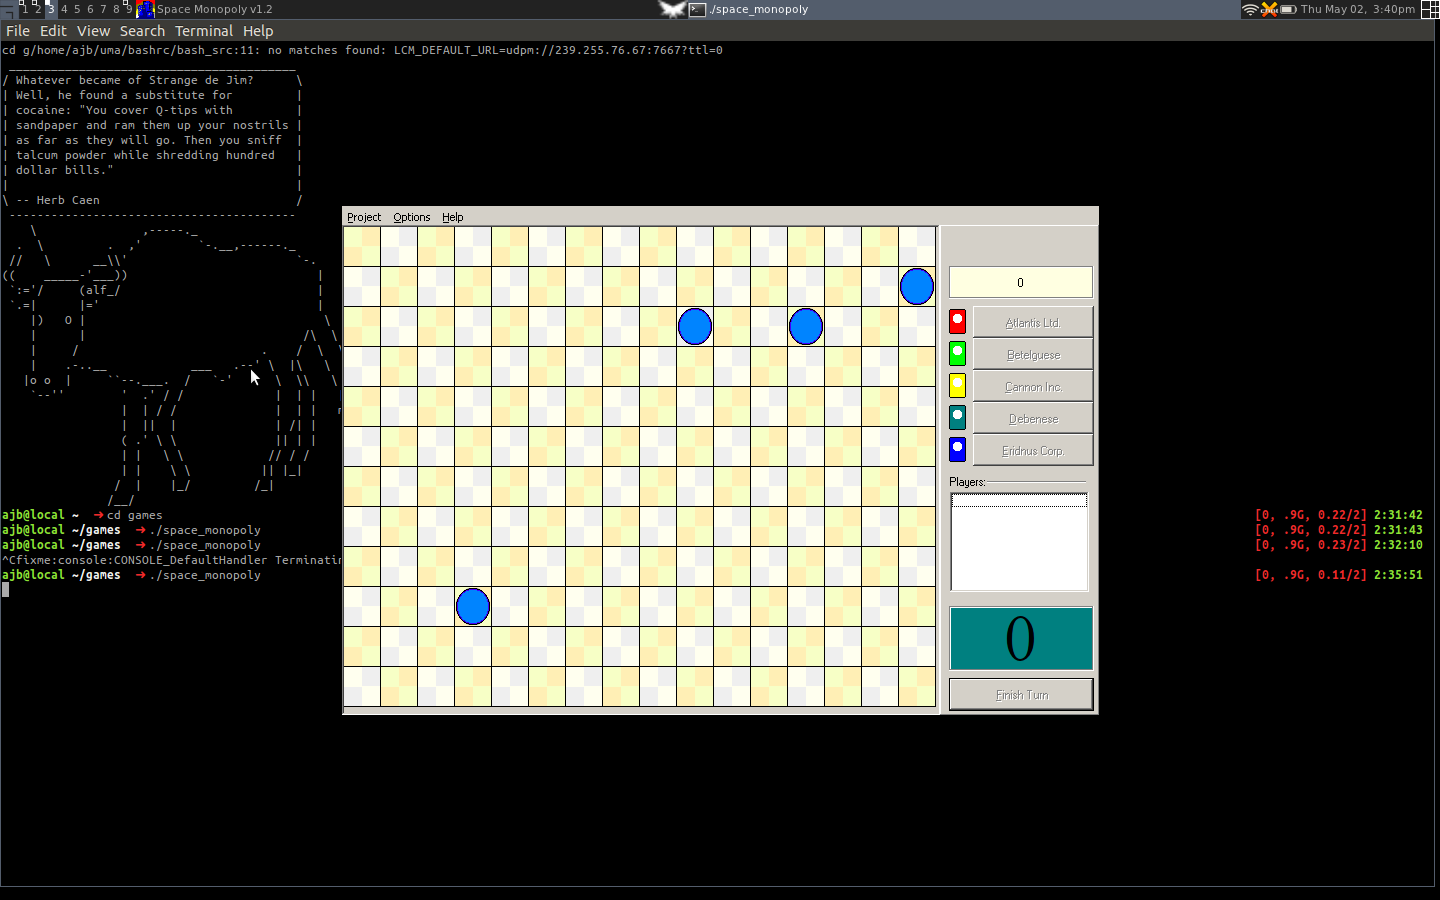
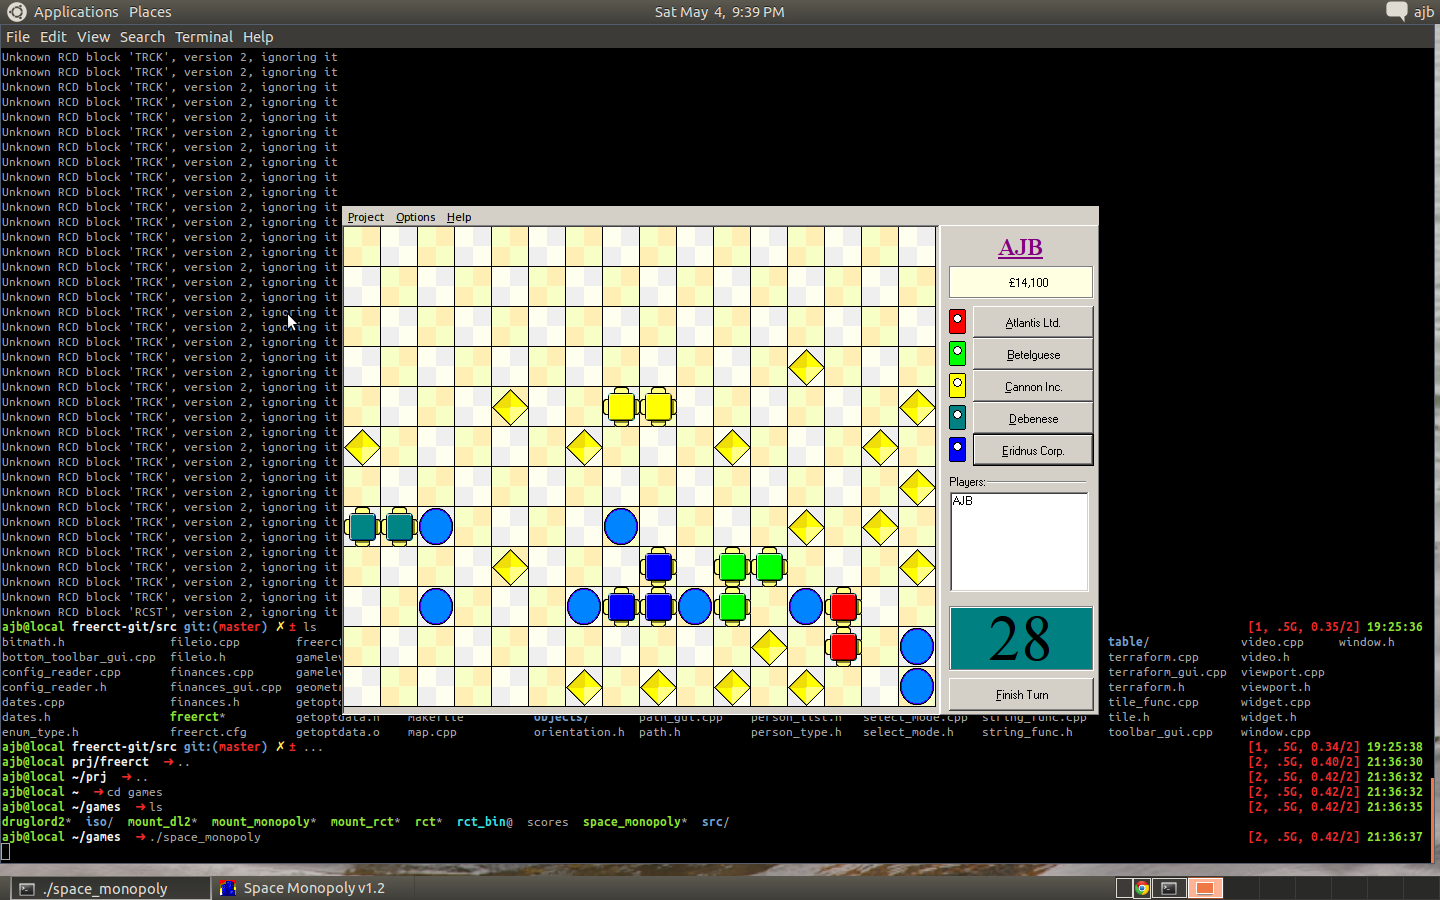
added logic to create and expand companies. TODO: Mergers and Money

diff --git a/controller.py b/controller.py
@@ -1,27 +1,19 @@
 import company
 import board
 
-class CompanyIndexOutOfRangeError(Exception): pass
-
 class SpacemonController:
 
     def __init__(self):
-	self.companies = []
-	for name in company.names:
-            self.companies.append(company.Company(name))
-
+	self.company_manager = company.CompanyManager()
 	self.board = board.SpacemonBoard()
 	self.board.set_circles()
 	self.board.set_select()
 
     def get_company(self, i):
-	if i >= len(self.companies):
-            raise CompanyIndexOutOfRangeError()
-	return self.companies[i]
+	return self.company_manager.get_by_index(i)
 
     def get_board(self):
 	return self.board
-
 
     def select_cell(self, x, y):
 	if self.board.get_square(x, y) != 'SELECT':
@@ -30,7 +22,52 @@ class SpacemonController:
             ## Do some selecting stuff!
             self.board.clear_select()
             self.board.set_diamond(x, y)
+            self.resolve_new_diamond(x, y)
             return True
+
+    def resolve_new_diamond(self, x, y):
+	companies = []
+	diamonds = []
+	circles = []
+
+	squares = [(x-1, y), (x, y-1), (x+1, y), (x, y+1)]
+	for xp, yp in squares:
+            print "x={}, y={}, xp={}, yp={}".format(x, y, xp, yp)
+            if self.board.is_diamond(xp, yp):
+                diamonds.append((xp, yp))
+            elif self.board.is_circle(xp, yp):
+		circles.append((xp, yp))
+            else:
+            	c = self.board.is_company(xp, yp)
+            	if c != False and c not in companies:
+                    companies.append(c)
+
+	# print "In 'resolve_new_diamond'"
+	# print "len(companies) = {}".format(len(companies))
+	# print "len(diamonds) = {}".format(len(diamonds))
+	# print "len(circles) = {}".format(len(circles))
+
+	if len(companies) >= 2:
+            self.handle_merger(companies, circles, diamonds)
+	elif len(companies) == 1:
+            company_id = companies[0]
+            company = self.company_manager.get_by_id(company_id)
+            squares = diamonds + [(x,y)]
+            company.grow(len(squares), len(circles))
+            self.board.assign_to_company(company_id, squares)
+	else:
+            ## just a rando diamond?
+            if len(diamonds) == 0 and len(circles) == 0:
+		return
+            ## a new company!
+            else:
+		squares = diamonds + [(x,y)]
+		id = self.company_manager.create_new(len(squares), len(circles))
+		self.board.assign_to_company(id, squares)
+		return
+
+    def handle_merger(self, companies, circles, diamonds):
+	print "Error: Merger handling unimplemented"
 
     def next_turn(self):
 	self.board.clear_select()

diff --git a/board.py b/board.py
@@ -18,7 +18,9 @@ class SpacemonBoard:
 
     def set_select(self):
 	assert len(self.select_sqr) == 0
-	self.randomize(5, 5, 'SELECT', lambda x,y: self.select_sqr.append((x,y)))
+	self.randomize(5, 5, 'SELECT',
+		allow_adj_diamond=True,
+		notify_callback=lambda x,y: self.select_sqr.append((x,y)))
 
     def set_diamond(self, x, y):
 	self.squares[y][x] = 'DIAMOND'
@@ -29,13 +31,24 @@ class SpacemonBoard:
             	self.squares[y][x] = 'NORMAL'
 	self.select_sqr = []
 
-    def randomize(self, min, max, type, notify_callback=None):
+    def is_adj_diamond(self, x, y):
+	adj_cells = [(x-1, y), (x, y-1), (x+1, y), (x, y+1)]
+	for xp, yp in adj_cells:
+            if xp < 0 or xp >= COLS: continue
+            if yp < 0 or yp >= ROWS: continue
+            if self.squares[yp][xp] == 'DIAMOND':
+		return True
+	return False
+
+    def randomize(self, min, max, type, allow_adj_diamond=True, notify_callback=None):
 	num_circles = randint(min, max)
 	for n in range(num_circles):
             while True:
             	x = randint(0, COLS-1)
             	y = randint(0, ROWS-1)
 		if self.squares[y][x] != 'NORMAL':
+                    continue
+		if not allow_adj_diamond and self.is_adj_diamond(x, y):
                     continue
             	self.squares[y][x] = type
             	if notify_callback != None:
@@ -45,3 +58,32 @@ class SpacemonBoard:
     def get_square(self, x, y):
 	return self.squares[y][x]
 
+    def assign_to_company(self, company_id, squares):
+	val = 'COMPANY-{}'.format(company_id)
+	for x,y in squares:
+            self.squares[y][x] = val
+
+    def is_valid_square(self, x, y):
+	return x >= 0 and x < COLS and y >= 0 and y < ROWS
+
+    def is_some_type(self, x, y, type):
+        if not self.is_valid_square(x, y):
+            return False
+        return self.squares[y][x] == type
+
+    def is_diamond(self, x, y):
+	return self.is_some_type(x, y, 'DIAMOND')
+
+    def is_circle(self, x, y):
+	return self.is_some_type(x, y, 'CIRCLE')
+
+    def is_company(self, x, y):
+        if not self.is_valid_square(x, y):
+            return False
+	sqr = self.squares[y][x]
+	sqr_type = sqr.split('-')[0]
+	sqr_rest = '-'.join(sqr.split('-')[1:])
+        if sqr_type != 'COMPANY':
+            return False
+	## its a company! Extract the id
+	return sqr_rest

diff --git a/company.py b/company.py
@@ -1,22 +1,80 @@
 
 names = ["Atlantis Ltd.", "Betelguese", "Cannon Inc.", "Debenese", "Eridnus Corp."]
+company_ids = ["atlantis-ltd", "betelguese", "cannon-inc", "debenese", "eridnus-corp"]
+company_map = {}
+for i in range(len(names)): company_map[company_ids[i]] = names[i]
+
+class CompanyIndexOutOfRangeError(Exception): pass
+class CompanyNewNotFound(Exception): pass
+
+class CompanyManager:
+
+    def __init__(self):
+	self.companies = []
+	for id in company_ids:
+            self.companies.append(Company(id))
+
+    def get_by_id(self, id):
+	print "get_by_id: id={}".format(id)
+	if id not in company_ids:
+            raise CompanyIndexOutOfRangeError()
+	i = company_ids.index(id)
+	return self.companies[i]
+
+    def get_by_index(self, i):
+	if i >= len(self.companies):
+            raise CompanyIndexOutOfRangeError()
+	return self.companies[i]
+
+    def create_new(self, num_squares, num_circles):
+	company = None
+	i = 0
+	for c in self.companies:
+            if not c.is_open():
+		company = c
+		break
+            i += 1
+	if i >= len(self.companies):
+            raise CompanyNewNotFoundError()
+
+	company.create_new(num_squares, num_circles)
+	return company.get_id()
 
 class Company:
 
-    def __init__(self, name):
-	self.name = name
+    def __init__(self, id):
+	self.id = id
+	assert(self.id in company_ids)
 	self.set_invalid()
 
     def set_invalid(self):
 	self.size = 0
 	self.price = 0
-	self.owners = {'AJB': 100, 'JKL': 10000}
+	self.owners = {}
+
+    def create_new(self, num_squares, num_circles):
+	assert(self.size == 0)
+	self.size = num_squares
+	self.price = (num_squares + 5*num_circles)*100
+
+    def is_open(self):
+	return self.size != 0
 
     def get_name(self):
-	return self.name
+	return company_map[self.id]
+
+    def get_id(self):
+	return self.id
 
     def get_size(self):
 	return self.size
+
+    def grow(self, num_squares, num_circles):
+	self.size += num_squares
+	self.price += (num_squares + 5*num_circles)*100
+
+    def inc_size_by(self, n):
+	self.size += n
 
     def get_price(self):
 	return self.price

diff --git a/spacemon.py b/spacemon.py
@@ -180,14 +180,22 @@ class SpacemonGrid(gtk.EventBox):
 	name = 'sel-big.png'
 	return image_resource(name)
 
+    def company_resource(self, x, y, name):
+	fname = 'company-{0}'.format(name)
+	return self.color_resource_helper(fname, x, y)
+
     def color_resource_helper(self, fname, x, y):
 	color = self.get_type_by_coords(x, y)
 	name = '{0}-{1}.png'.format(fname, color)
 	return image_resource(name)
 
-    def change_grid_loc(self, x, y, resource_callback):
+    def change_grid_loc(self, x, y, resource_callback, data=''):
         self.table.remove(self.grid_cells[y][x])
-	self.grid_cells[y][x] = resource_callback(x, y)
+	if data != ''	:
+            resource = resource_callback(x, y, data)
+	else:
+            resource = resource_callback(x, y)
+	self.grid_cells[y][x] = resource
 	self.table.attach(self.grid_cells[y][x], x, x+1, y, y+1)
 
     def update(self):
@@ -195,7 +203,8 @@ class SpacemonGrid(gtk.EventBox):
 		{'NORMAL':  self.block_resource,
 		 'CIRCLE': self.circle_resource,
 		 'SELECT': self.select_resource,
-		 'DIAMOND': self.diamond_resource
+		 'DIAMOND': self.diamond_resource,
+		 'COMPANY': self.company_resource
 		}
 
        	board = self.controller.get_board()
@@ -203,11 +212,13 @@ class SpacemonGrid(gtk.EventBox):
 	for y in range(ymax):
             for x in range(xmax):
 		sqr = board.get_square(x, y)
-		if sqr not in resource_callbacks:
-                    print >> sys.stderr ("Error: Square type '{0}' not recognized".format(sqr))
+		sqr_type = sqr.split('-')[0]
+		sqr_val = '-'.join(sqr.split('-')[1:])
+		if sqr_type not in resource_callbacks:
+                    sys.stderr.write("Error: Square type '{0}' not recognized".format(sqr))
 		else:
-                    resource = resource_callbacks[sqr]
-                    self.change_grid_loc(x, y, resource)
+                    resource = resource_callbacks[sqr_type]
+                    self.change_grid_loc(x, y, resource, sqr_val)
 
 def image_resource(fname):
     image = gtk.Image()

diff --git a/company_dialog.py b/company_dialog.py
@@ -108,7 +108,7 @@ class CompanyFrame(gtk.Frame):
     def update(self):
 	company = self.controller.get_company(self.index)
 	self.company_name.set_text(company.get_name())
-	self.set_size(company.get_price())
+	self.set_size(company.get_size())
 	self.set_price(company.get_price())
 	name, n = company.get_largest_shareholder()
 	self.set_largest_shareholder(name, n)
